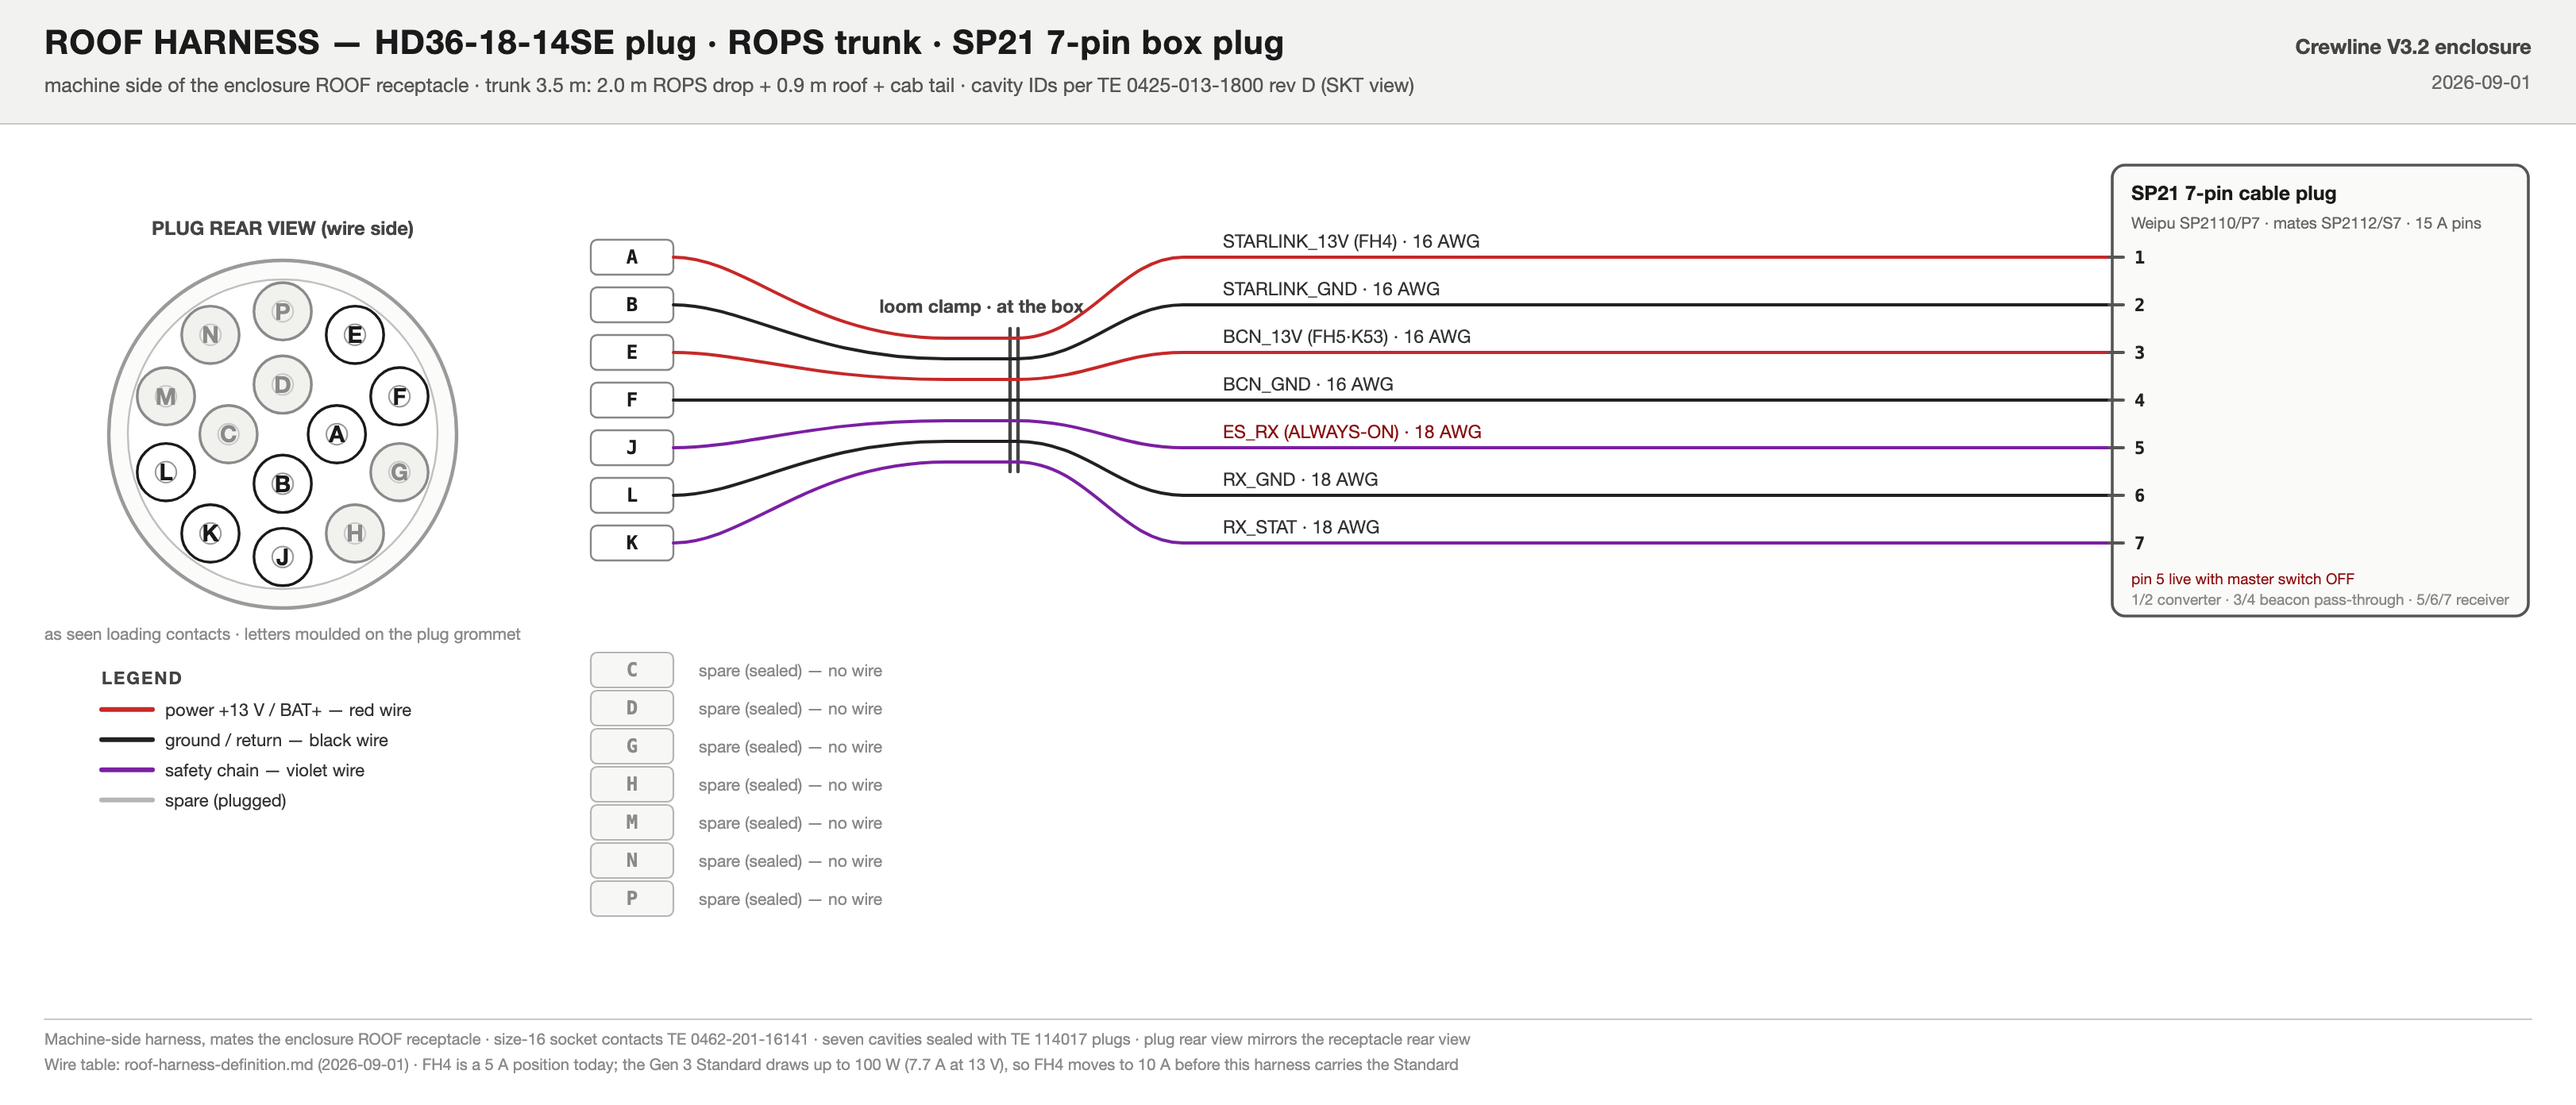
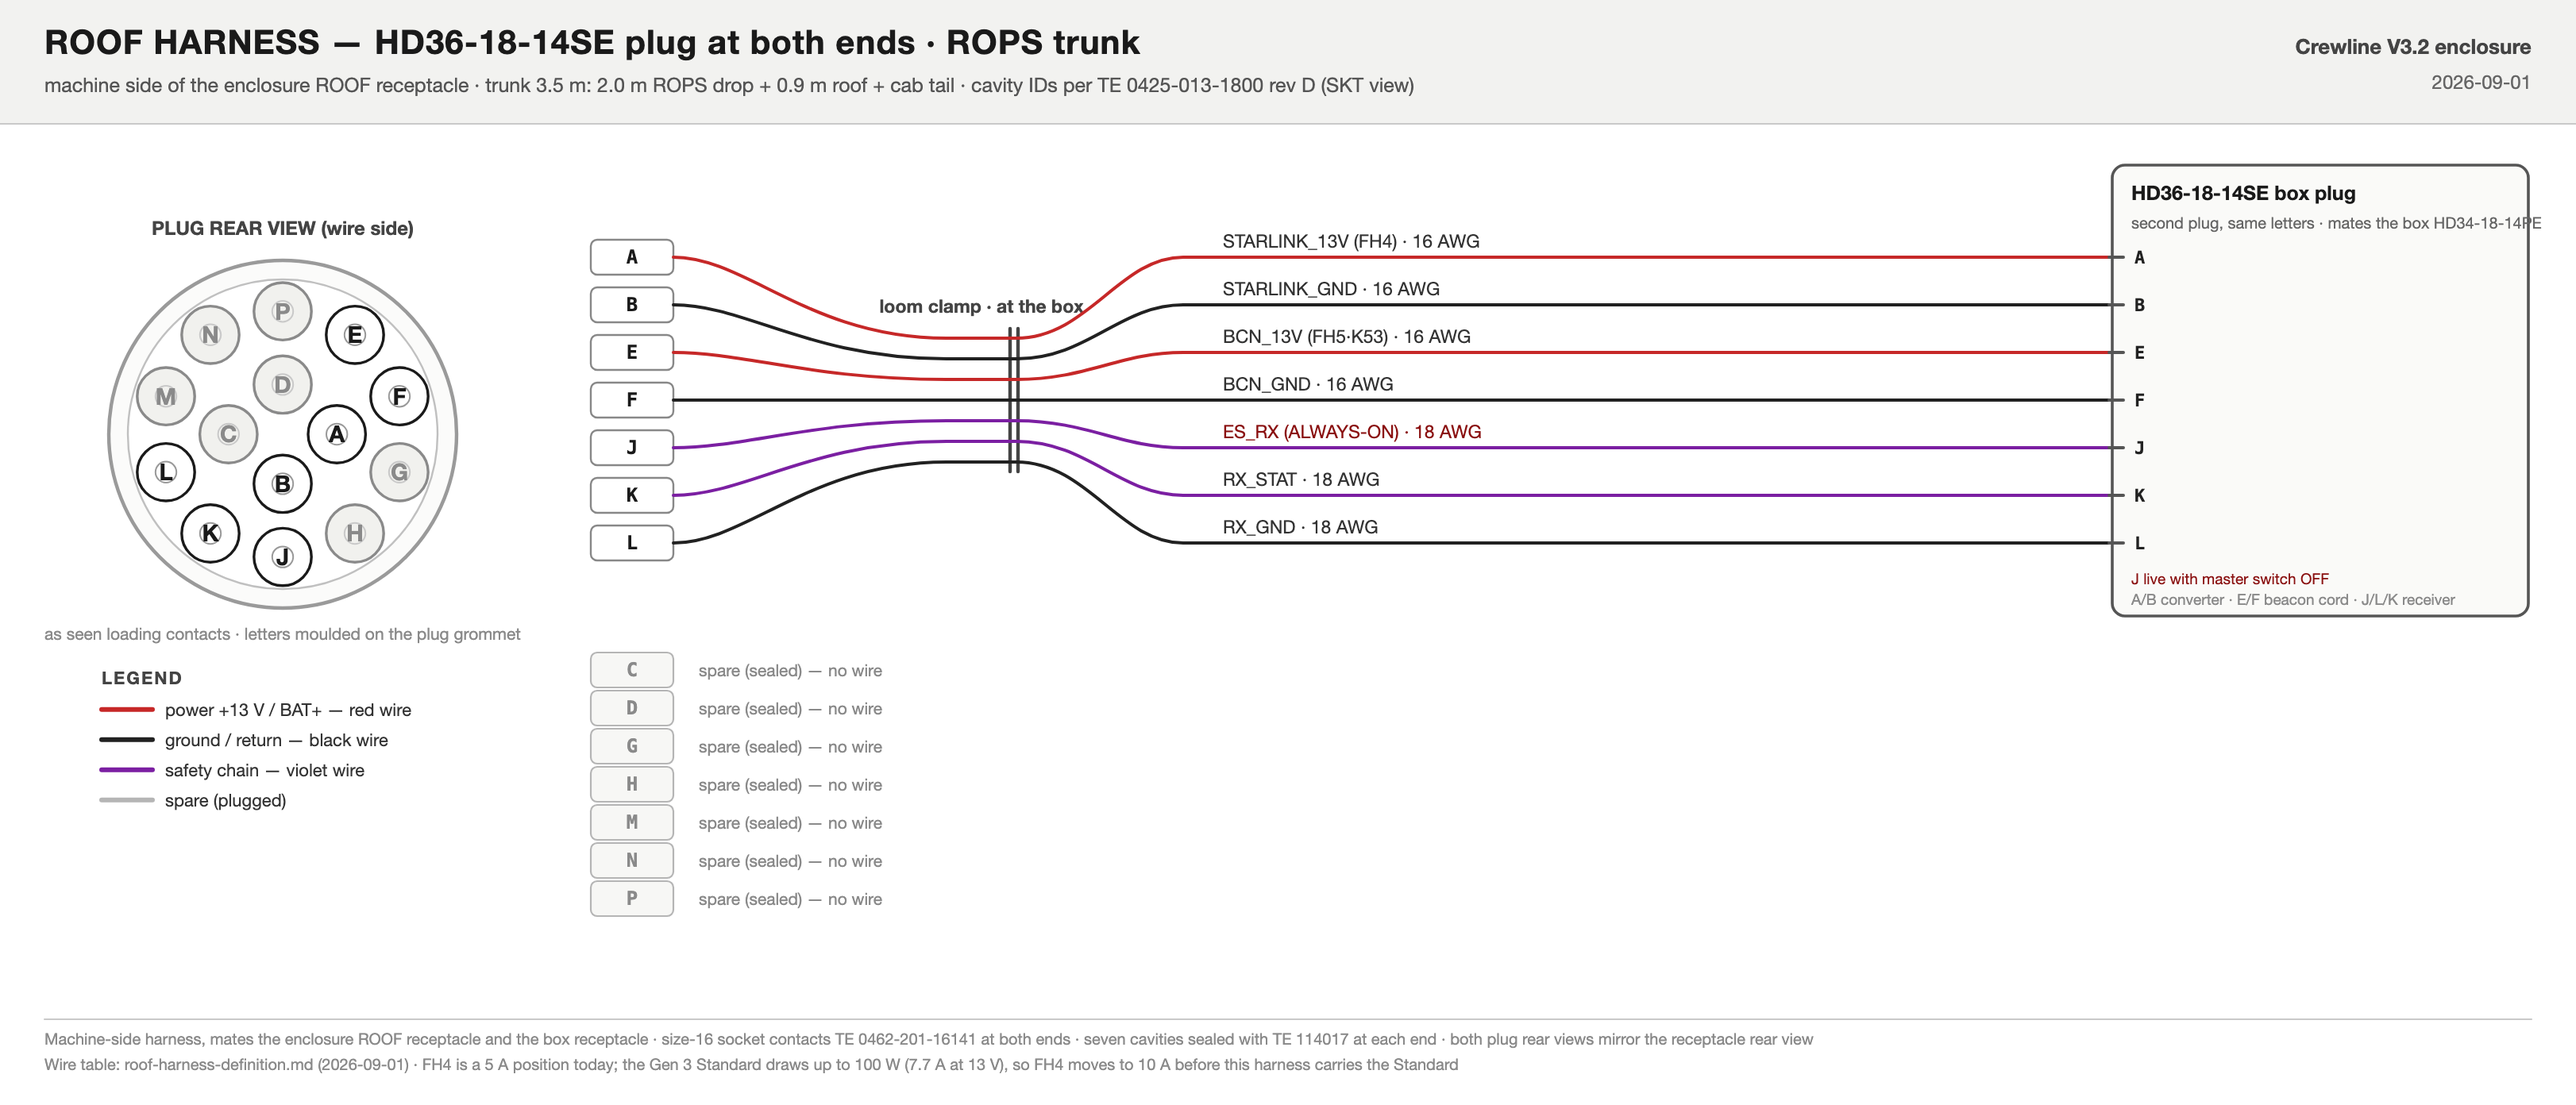
Roof harness: HD36 plug at both ends, HD34-18-14PE receptacle in the box, no solder
Box end is a second HD36-18-14SE plug onto an HD34-18-14PE receptacle (same
letters both ends); inside the box every conductor is a size-16 crimp pin
(0460-202-16141) in the receptacle rear. Beacon cord passes through a Weidmuller
Cabtite CGS M63 split gland uncut and lands on E/F. New 'cavities' pictogram
draws the receptacle rear from the ROOF cavity table.

diff --git a/generators/gen_diagrams.py b/generators/gen_diagrams.py
@@ -736,7 +736,23 @@ def gen_box(rc):
         pic = g.get("pict")
         if pic:
             pcx, pcy = 150, gy0 + 30 + (gh - 34) / 2 - (14 if pic["kind"] in ("socket", "gland") else 0)
-            if pic["kind"] == "socket":
+            if pic["kind"] == "cavities":
+                # HD30 insert rear (wire-side) view from a receptacle data file:
+                # every cavity lettered, the wired ones in ink, the rest muted
+                src = json.load(open(os.path.join(DATA, pic["from"])))
+                r = pic.get("r", 40)
+                circle(pcx, pcy, r + 10, "#9a9a9a", "#fbfbfa", 2.0)
+                circle(pcx, pcy, r, "#c0c0c0", "#ffffff", 1.0)
+                sc = 0.82 * r / 9.207
+                used = set(pic.get("used", []))
+                mx = -1 if pic.get("mirror") else 1
+                for cav, (_sz, cx, cy) in src["cavities"].items():
+                    px, py = pcx + mx * cx * sc, pcy - cy * sc
+                    on = cav in used
+                    circle(px, py, 7.5, (C["ink"] if on else "#bbb"), ("#fff" if on else "#f4f4f2"), (1.4 if on else 0.9))
+                    text(px, py + 3, cav, 8.5, (C["ink"] if on else "#aaa"), anchor="middle", bold=on, mono=True, audit=False)
+                text(pcx, pcy + r + 26, pic.get("caption", "rear view"), 9, "#888", anchor="middle", audit=False)
+            elif pic["kind"] == "socket":
                 r = pic.get("r", 36)
                 circle(pcx, pcy, r + 8, "#9a9a9a", "#fbfbfa", 2.0)
                 circle(pcx, pcy, r, "#c0c0c0", "#ffffff", 1.0)

diff --git a/docs/roof-harness-definition.md b/docs/roof-harness-definition.md
@@ -8,17 +8,18 @@ itself, its pigtail and its face pinout are in `internal-wiring-definition.md` a
 
 Cab end: TE Deutsch HD36-18-14SE plug (mates HD34-18-14PE), size-16 socket contacts. Trunk 3.5 m
 cut length: 2.0 m up the rear-left ROPS leg, about 0.9 m across the roof, plus the cab tail. The box
-end is one Weipu SP21 7-pin cable plug (15 A contacts) into the SP2112/S7 wall socket.
+end is a second HD36-18-14SE plug onto an HD34-18-14PE receptacle in the box wall: same parts, same
+cavity letters at both ends.
 
-| ROOF cavity | Circuit | AWG | Class | Plug · pin |
+| ROOF cavity | Circuit | AWG | Class | Box plug · cavity |
 |---|---|---|---|---|
-| A | STARLINK_13V (FH4) | 16 | PWR | SP21 · 1 |
-| B | STARLINK_GND | 16 | GND | SP21 · 2 |
-| E | BCN_13V (FH5, K53 switched) | 16 | PWR | SP21 · 3 |
-| F | BCN_GND | 16 | GND | SP21 · 4 |
-| J | ES_RX (always on) | 18 | SAFE | SP21 · 5 |
-| L | RX_GND | 18 | GND | SP21 · 6 |
-| K | RX_STAT | 18 | SAFE | SP21 · 7 |
+| A | STARLINK_13V (FH4) | 16 | PWR | A |
+| B | STARLINK_GND | 16 | GND | B |
+| E | BCN_13V (FH5, K53 switched) | 16 | PWR | E |
+| F | BCN_GND | 16 | GND | F |
+| J | ES_RX (always on) | 18 | SAFE | J |
+| L | RX_GND | 18 | GND | L |
+| K | RX_STAT | 18 | SAFE | K |
 | C, D, G, H, M, N, P | LiDAR power, LiDAR CAN, spare pair, plugged cavity | — | — | sealed (TE 114017) |
 
 The plug's wire-side view is the mirror of the receptacle rear view; the cavity
@@ -28,20 +29,20 @@ letters are moulded on the plug grommet.
 
 | From | To | Conductor | Length |
 |---|---|---|---|
-| SP21 cup 1 | converter IN + | converter's own red input lead (supplied) | 30 cm |
-| SP21 cup 2 | converter IN − | converter's own black input lead (supplied) | 30 cm |
-| SP21 cup 3 | SP13 2-pin cup 1 | 18 AWG red, beacon feed pass-through | 250 mm |
-| SP21 cup 4 | SP13 2-pin cup 2 | 18 AWG black, beacon return pass-through | 250 mm |
-| SP21 cup 5 | receiver RED (9–30 V) | receiver pigtail, 18 AWG | 0.91 m pigtail |
-| SP21 cup 6 | receiver BLACK (GND) | receiver pigtail, 18 AWG | |
-| SP21 cup 7 | receiver WHITE (E-stop output 1, sourcing) | receiver pigtail, 18 AWG | |
+| cavity A pin | converter IN + | converter's own red input lead (supplied), crimp pin | 30 cm |
+| cavity B pin | converter IN − | converter's own black input lead (supplied), crimp pin | 30 cm |
+| cavity E pin | beacon cord + | beacon pigtail through the gland, uncut, crimp pin | as supplied |
+| cavity F pin | beacon cord − | beacon pigtail through the gland, uncut, crimp pin | as supplied |
+| cavity J pin | receiver RED (9–30 V) | receiver pigtail, 18 AWG | 0.91 m pigtail |
+| cavity L pin | receiver BLACK (GND) | receiver pigtail, 18 AWG | |
+| cavity K pin | receiver WHITE (E-stop output 1, sourcing) | receiver pigtail, 18 AWG | |
 | — | receiver GREEN (output 2) | not used, cut back and heat-shrunk | |
 | converter OUT | router 57 V barrel | converter's own output lead + barrel plug (supplied) | 98 cm |
 | KVT grommet | router DISH port | Starlink cable, moulded plug, passes the Ø63.4 cut-out before the grommet closes | 15 m fixed |
 | KVT grommet | router LAN port | CAT6A outdoor, moulded RJ45, to the cab switch | 10 ft |
 | lid dome | receiver ANT port | dome's captive coax, connected after the dome is bolted to the lid and the receiver is on its bracket | captive |
 
-No junction blocks: the converter leads solder straight to the SP21 solder cups and the beacon feed
+No junction blocks and no solder: every conductor ends in a size-16 crimp pin in the receptacle rear; the beacon cord
 passes through the box untapped.
 
 ## Parts
@@ -51,9 +52,10 @@ passes through the box untapped.
 | Cab plug | TE Deutsch HD36-18-14SE | 1 |
 | Socket contacts, size 16 | TE 0462-201-16141 | 7 |
 | Sealing plugs, size 16 | TE 114017 | 7 |
-| Box harness plug | Weipu SP2110/P7 (cable plug, 7-pin, 15 A contacts) | 1 |
-| Wall sockets | Weipu SP2112/S7 (harness), SP1312/S2 (beacon out) | 1 each |
-| Beacon cord plug | Weipu SP1310/P2 | 1 |
+| Box harness plug | TE HD36-18-14SE (second plug, crimp) | 1 |
+| Box receptacle | TE HD34-18-14PE + panel nut 114020-90 + lock washer 114021 | 1 each |
+| Receptacle pins | TE 0460-202-16141 size-16 solid pins (converter leads, beacon cord, receiver pigtail) | 7 |
+| Split gland | Weidmüller Cabtite CGS M63 + SE 8-9 (dish), SE 6-7 (LAN), SE 4-5 (beacon cord), BSE blind | 1 set |
 | Split gland | icotek KVT-ER 63|4 (45456) | 1 |
 | Wire | 16 AWG GXL red/black (two pairs), 18 AWG TXL violet ×2 + black, braided loom | 3.5 m each |
 
@@ -64,9 +66,9 @@ FH4 is a 5 A position in the power-board fuse ladder. The Gen 3 Standard draws u
 and the size-16 contacts (13 A) carry that current.
 
 The beacon pair E/F is switched by K53 on the power board (autonomy engaged), so the beacon cannot
-hang off the box's own 13 V feed. It enters the box on SP21 pins 3/4 and passes straight through to
-the SP13 2-pin beacon socket. One 7-pin SP21 carries the whole harness into the box: the SP21
-7-pin contacts are rated 15 A, the Starlink feed draws up to 7.7 A.
+hang off the box's own 13 V feed. It arrives on receptacle cavities E/F; the beacon cord itself comes in through the split gland
+No junction blocks and no solder: every conductor ends in a size-16 crimp pin in the receptacle rear; the beacon cord
+joint is a size-16 crimp pin in the receptacle rear (13 A contacts, the Starlink feed draws up to 7.7 A).
 
 The receiver's E-stop output 1 (white) is a sourcing output that carries the receiver supply voltage
 while the link is healthy and no transmitter is stopped, and it drops when a stop is pressed or the
